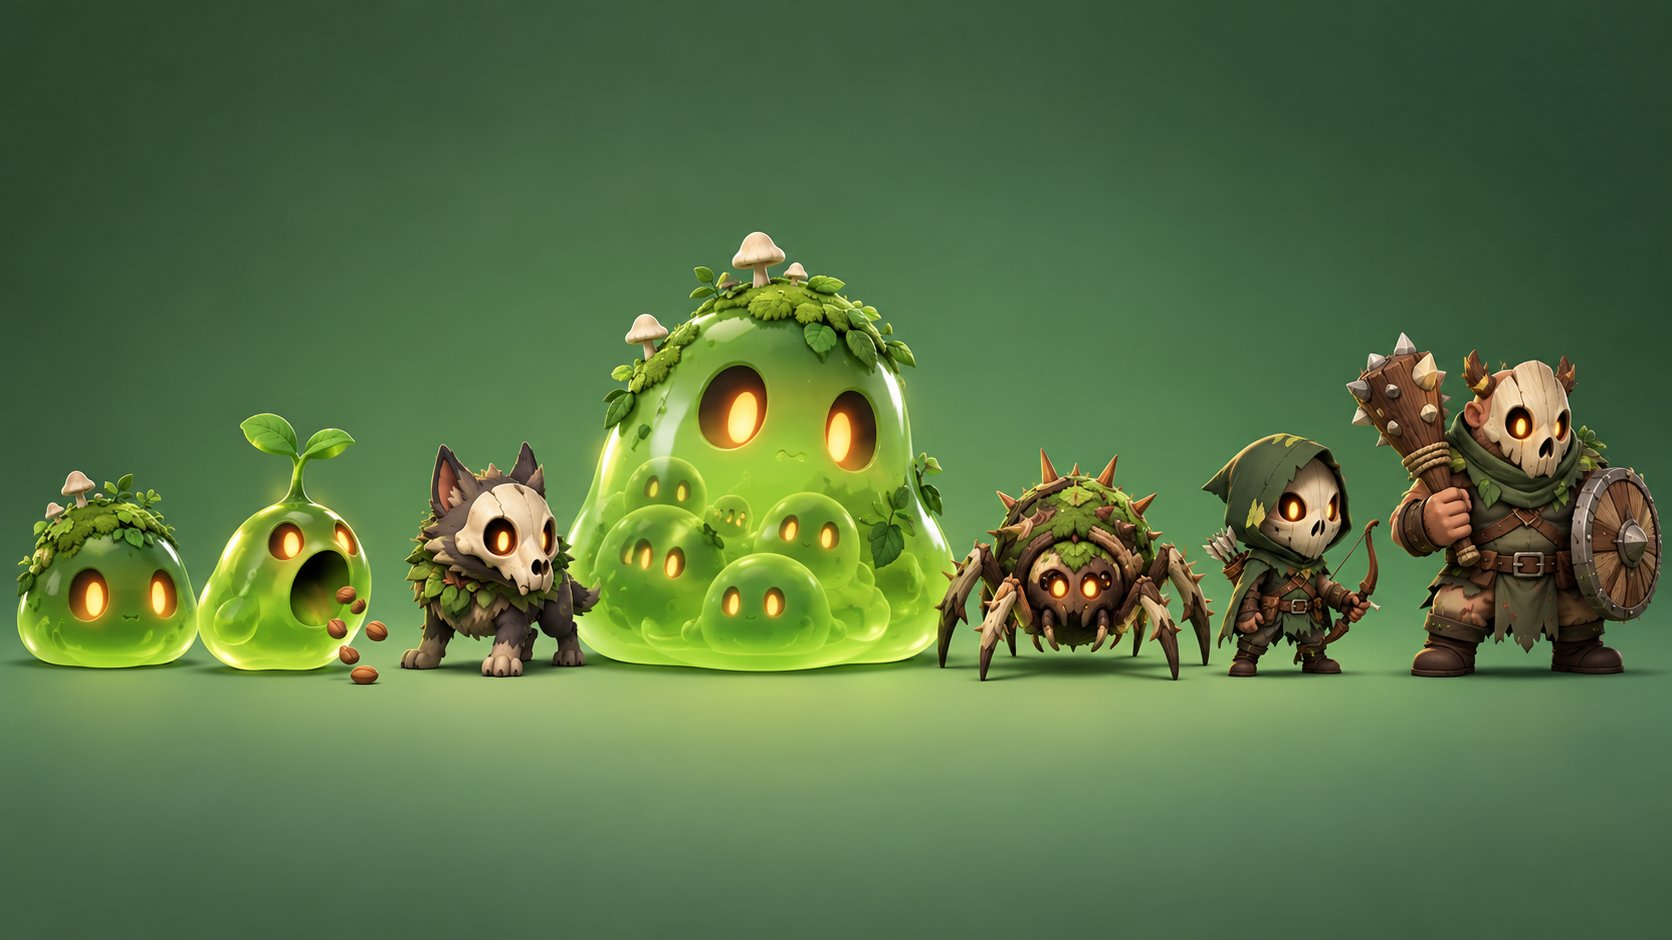
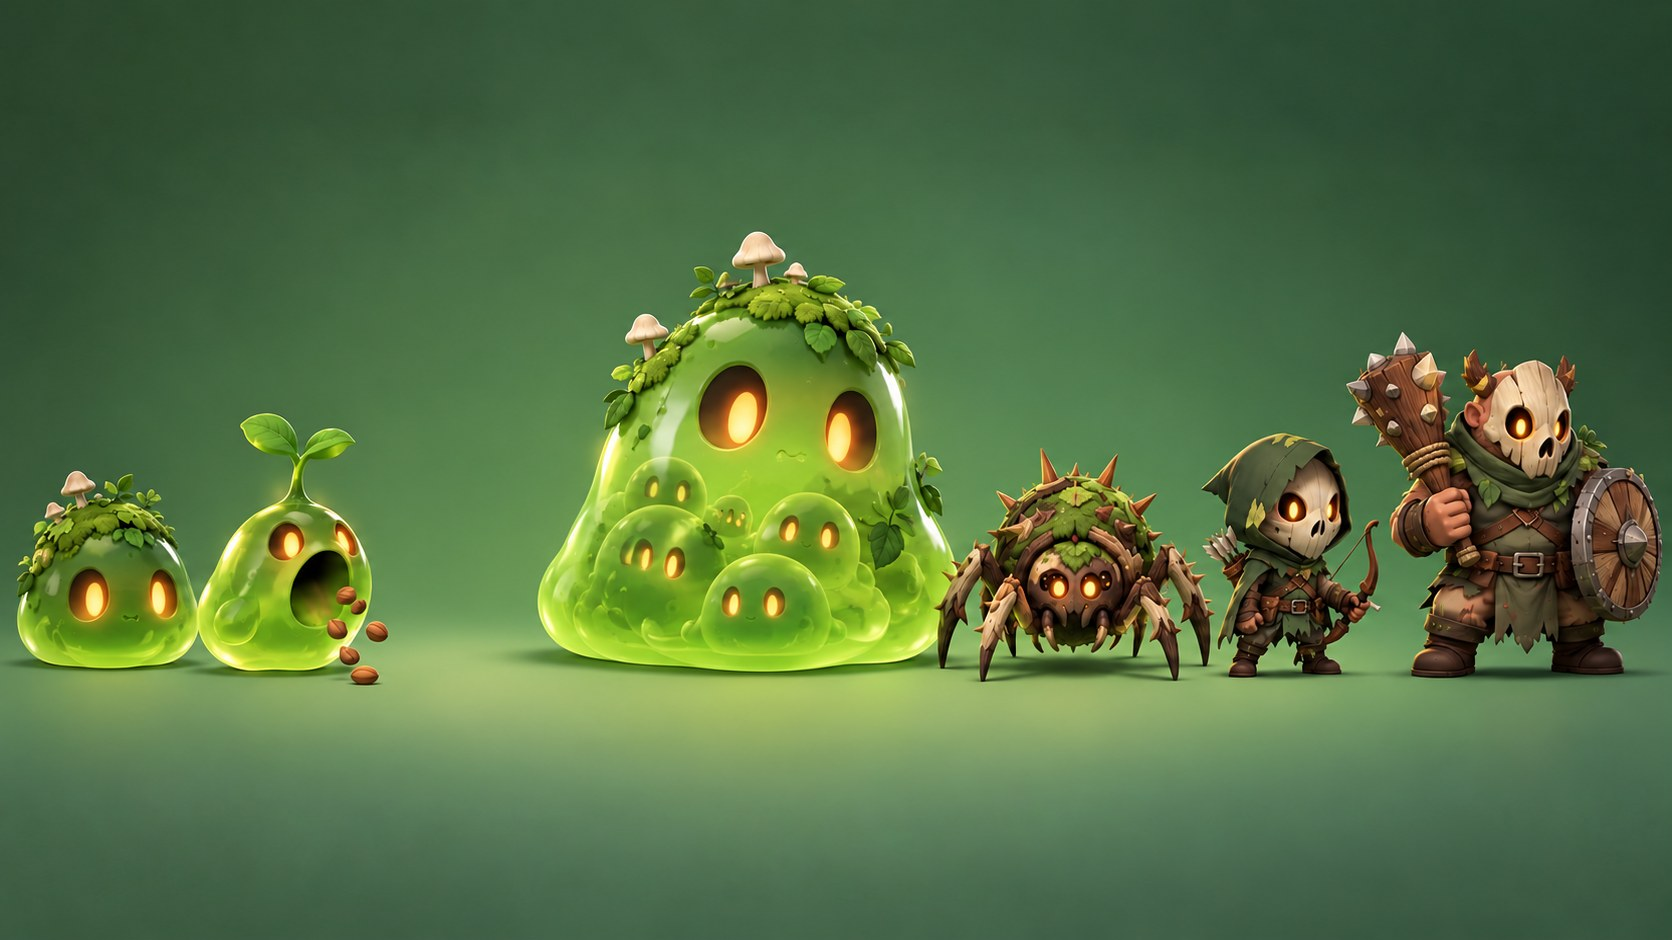
Drop the Glade Wilf, design and concept art
Owner, 2026-10-23: the Glade Wilf enemy is dropped entirely. Its row in the
Mossy Glade table and its mentions in ENEMIES-AND-ARENAS.md are gone, with a
note saying so; its original and blocky concept sheets are deleted; Codex
painted it out of both act 1 lineups; and the act 1 pages, overview and
world overview are rebuilt without it. The Ember Wilf in the game is a
different design and is untouched.

diff --git a/docs/ENEMIES-AND-ARENAS.md b/docs/ENEMIES-AND-ARENAS.md
@@ -59,9 +59,9 @@ keep the arena theme" — an earlier all-insect pass went too far):
 - **Hollow, glowing eyes**, in each act's colour: amber in the Wilds, pale
   green in the Lowlands, white-blue in the Heights, ember orange in the
   Depths, violet at the End.
-- **A small pale mask or face plate on *some* creatures** — the Glade Wilf's
-  skull mask, the Corrupted Monk's hollow mask, the Void Wisp that is only a
-  mask — not on all of them, so it stays a signature rather than a uniform.
+- **A small pale mask or face plate on *some* creatures** — the Corrupted
+  Monk's hollow mask, the Void Wisp that is only a mask — not on all of them,
+  so it stays a signature rather than a uniform.
 - **The odd slender limb or little tattered cloak**, and a slightly wistful
   charm — never gory.
 
@@ -82,8 +82,11 @@ the act that teaches the game.
 |---|---|---|---|
 | **Moss Slime** | Charger, slow · reskin | Hops straight at you | Move or shoot |
 | **Sprout Slime** | Spitter · reskin | Lobs one slow seed | Dodging a shot |
-| **Glade Wilf** | Charger, fast · twist: comes in packs of 3 that circle before lunging | Circles, then dashes in | Reading a lunge |
 | *Elite:* **Brood Slime** (built 2026-10-22) | Charger · twist: splits into 4 Moss Slimes (owner, like Zac) on death, thrown out like Zac's Cell Division | A slow wall that becomes four threats | Finishing what you start |
+
+The **Glade Wilf** (a masked mossy wolf in packs of three) is **dropped**,
+design and concept art both (owner, 2026-10-23). The Wilf the glade has in
+the game is the Ember Wilf, which this does not touch.
 
 **Arenas.** *Clearing* — open grass, two mossy stumps. *Fairy Ring* — a ring
 of mushrooms (low cover) round an open centre. *Fallen Log* — one long log
@@ -365,7 +368,7 @@ pieces one by one, and material swatches.
 **Enemies** — 54 pages. Pages marked *(cut area)* belong to areas cut in the
 move to ten; they are kept in case those enemies come back.
 
-- **Act 1** (`assets/concepts/enemies/act1/`, all on `act1_pages.jpg`): bandit_archer *(cut area)*, bomb_tosser *(cut area)*, bramble_boar, bramble_lurker, bramble_sow, brute *(cut area)*, burr_thistle, cutthroat *(cut area)*, glade_wilf, moss_slime, mother_slime, sprout_slime
+- **Act 1** (`assets/concepts/enemies/act1/`, all on `act1_pages.jpg`): bandit_archer *(cut area)*, bomb_tosser *(cut area)*, bramble_boar, bramble_lurker, bramble_sow, brute *(cut area)*, burr_thistle, cutthroat *(cut area)*, moss_slime, mother_slime, sprout_slime
 - **Act 2** (`assets/concepts/enemies/act2/`, all on `act2_pages.jpg`): bell_ringer, bog_frog *(cut area)*, cave_crawler, ditch_eel, drowned_zombie, glowcap, hollow_fisherman, shellback, spore_puff, swamp_lurker *(cut area)*, toxic_toad *(cut area)*
 - **Act 3** (`assets/concepts/enemies/act3/`, all on `act3_pages.jpg`): bell_guardian *(cut area)*, chanting_acolyte *(cut area)*, cliff_goat, corrupted_monk *(cut area)*, frost_golem, gust_shaman, harpy, ice_lurker, lantern_spirit *(cut area)*, snow_sprite, storm_roc, yeti
 - **Act 4** (`assets/concepts/enemies/act4/`, all on `act4_pages.jpg`): anvil_golem, dwarven_construct, ember_bat, ember_mage *(cut area)*, fire_imp, forge_turret, lava_slime *(cut area)*, magma_lurker, mine_cart_bomber, obsidian_brute *(cut area)*, spark_drone
